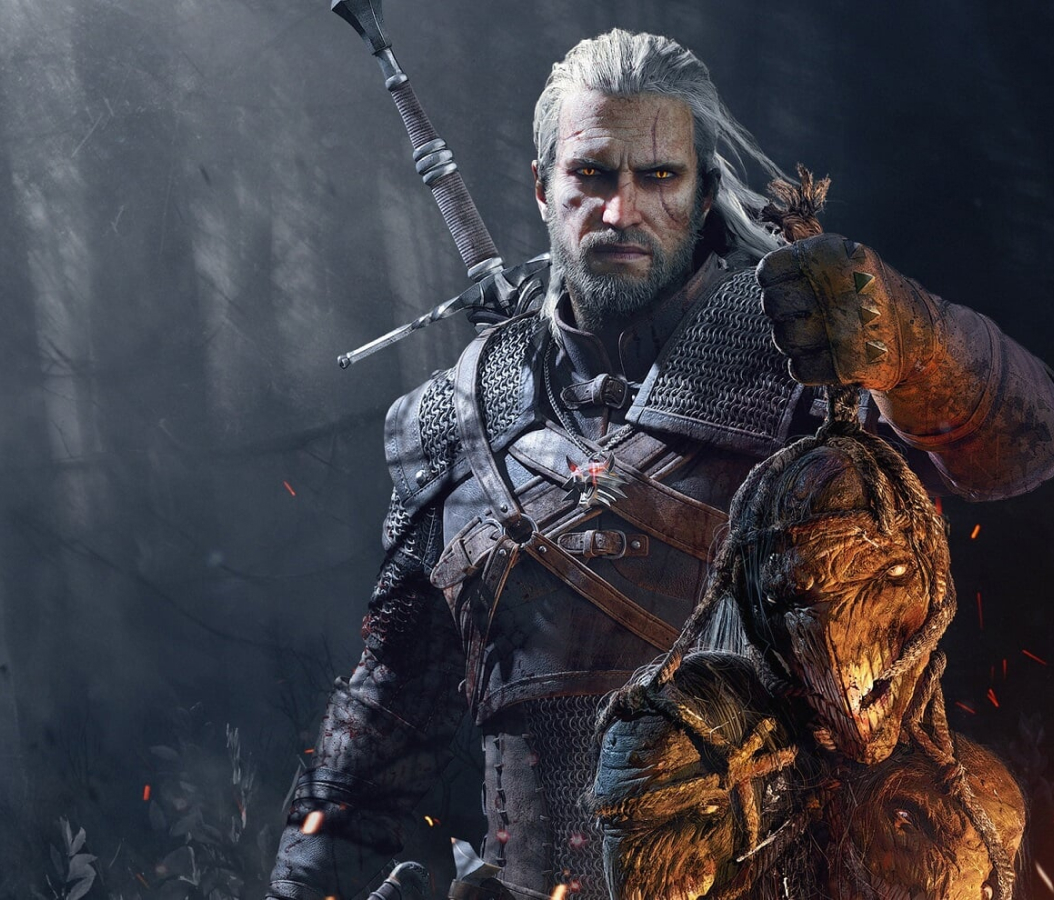
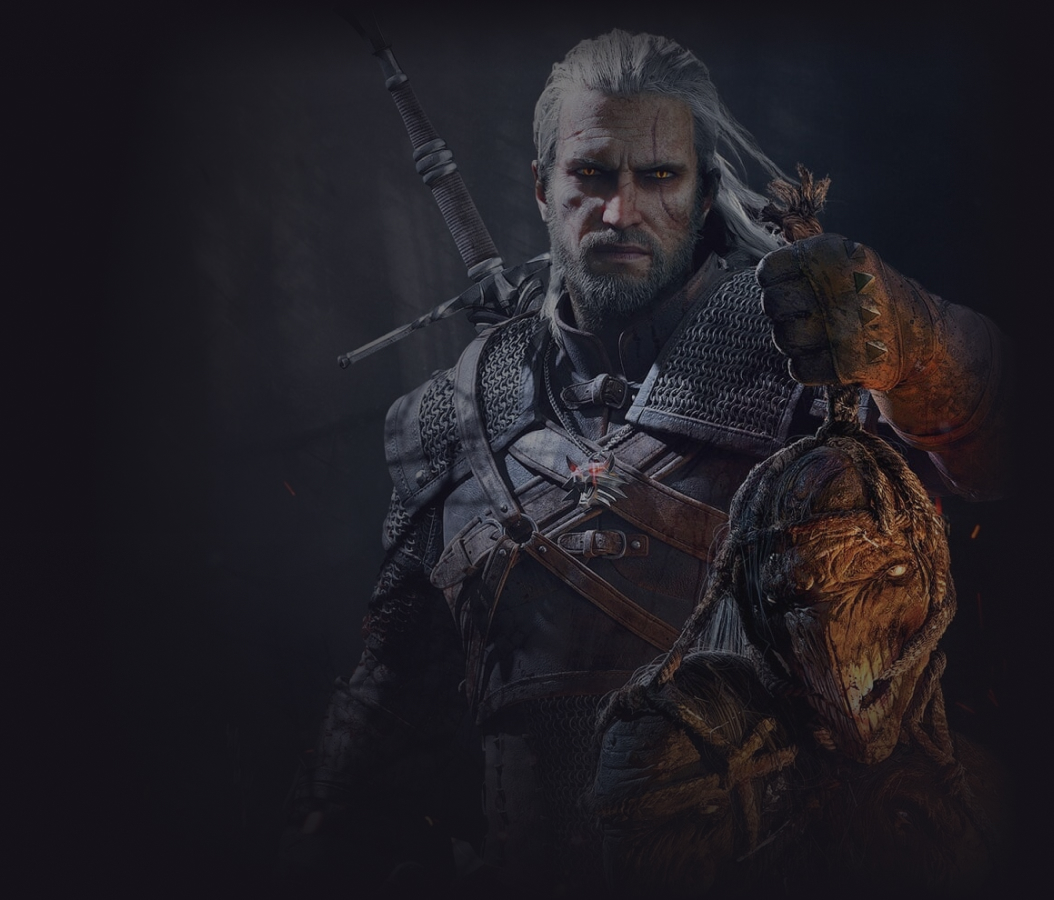
fix bg bug

diff --git a/css/style.css b/css/style.css
@@ -17,10 +17,7 @@ body {
   display: flex;
   flex-direction: column;
   justify-content: space-between;
-  background: linear-gradient(180deg, rgba(20, 18, 24, 0) 59.28%, #141218 100%),
-    linear-gradient(270deg, #141218 3.38%, rgba(20, 18, 24, 0) 10.43%),
-    linear-gradient(179.45deg, #141218 0.55%, rgba(20, 18, 24, 0) 8.71%),
-    url('../img/background-1.jpg') #141218 top right 20% no-repeat;
+  background: url('../img/background.jpg') #141218 top right 20% no-repeat;
 }
 .container {
   width: 95%;
